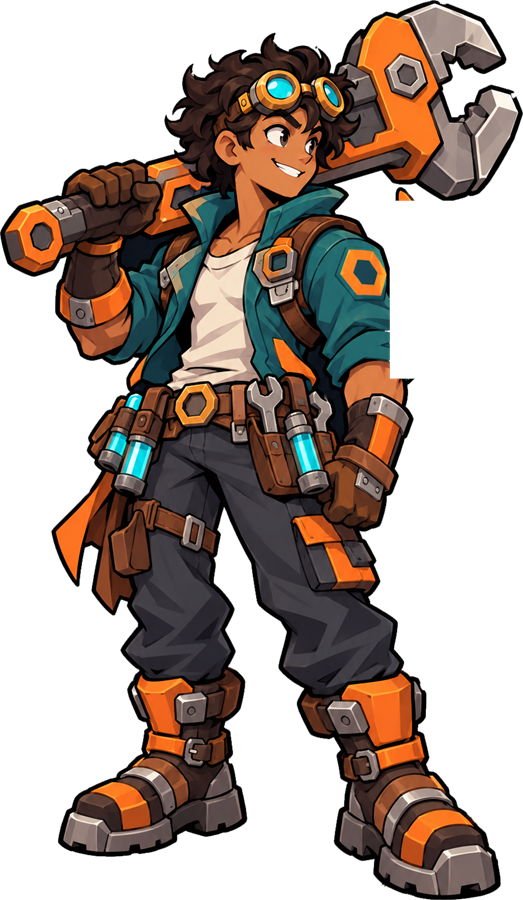
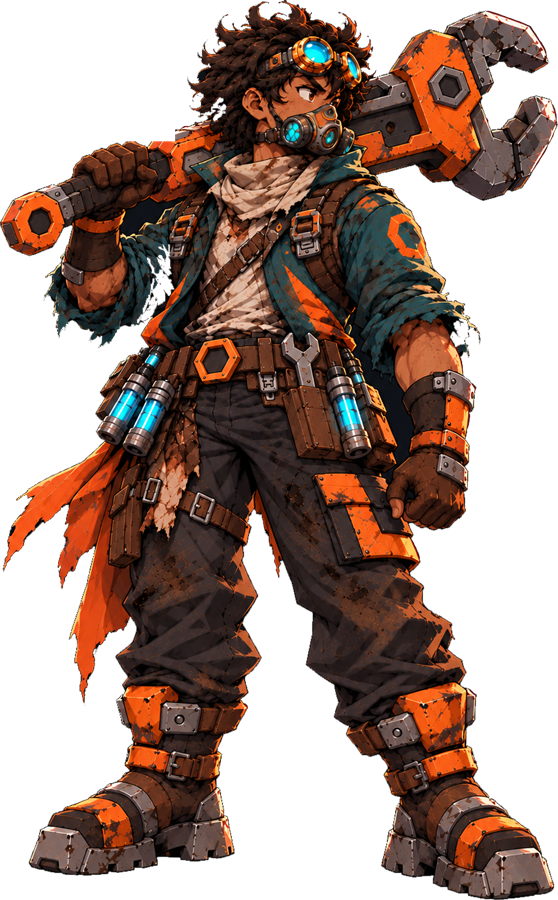
Rivet gets the rustier gas-mask look (rivet-2)

diff --git a/CHANGELOG.md b/CHANGELOG.md
@@ -5,6 +5,7 @@ Player-visible changes, newest first. Format loosely follows [Keep a Changelog](
 ## [Unreleased]
 
 ### Added (newest)
+- **Rivet's new look:** a rustier, gas-masked engineer with a bigger wrench (the drone is still drawn as his companion).
 - **Kesh's icon:** the hunter now wears a bold paw print (the thin bow was hard to read and she no longer carries one).
 - **Grimoire size:** the card book no longer flashes small when you pick a filter, and on medium-width windows it shows one big page instead of two cramped ones.
 - **0.22.0:** three-stage runs, no-overlap fighters, Devotion, copyable error screens, and the first batch of illustrated card art.
